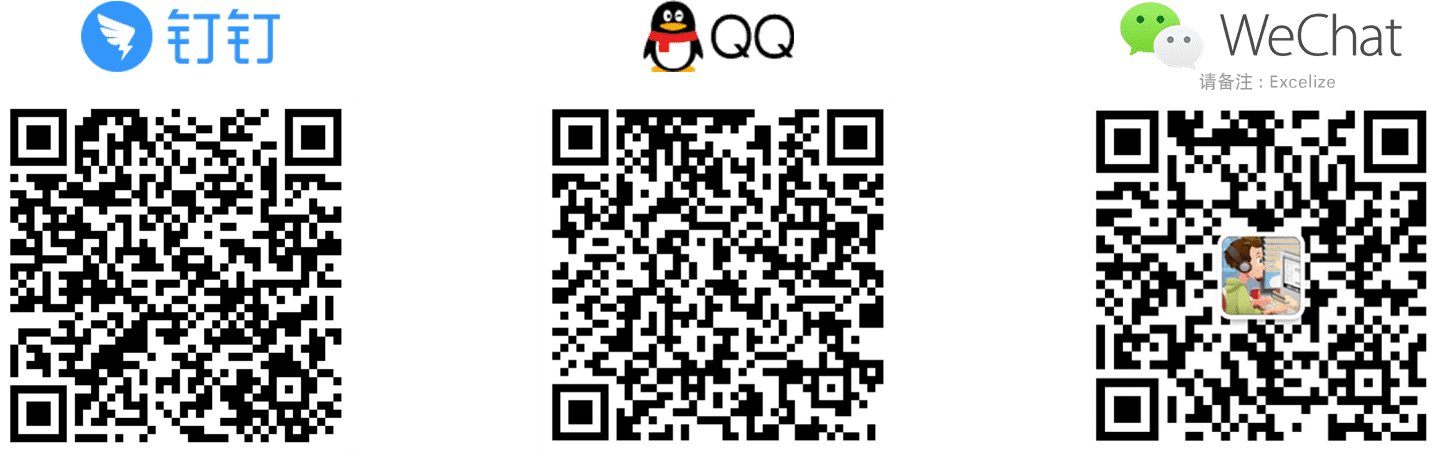
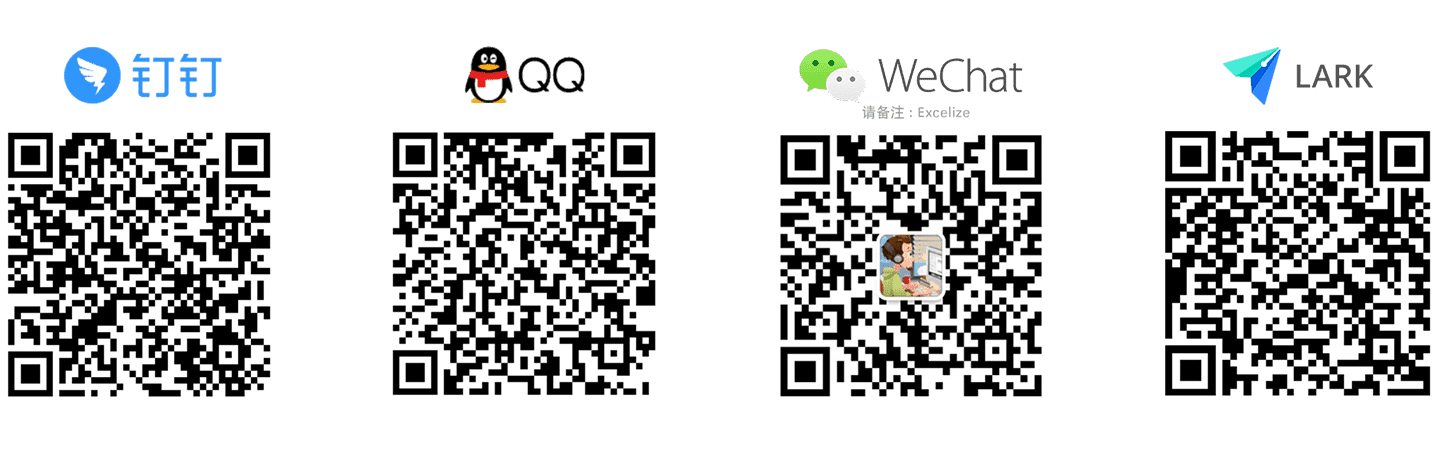
update supported formula functions and community group QR code

diff --git a/ar/README.md b/ar/README.md
@@ -25,7 +25,7 @@ Excelize هي مكتبة مكتوبة في الذهاب نقية توفير مج
 
 إذا كانت شركتك أو منتجك يستخدم أيضا Excelize، نرحب <a href="mailto: xuri.me@gmail.com?Subject=Please add our company in Excelize Introduction page&amp;Body=Hello%2C%20this%20is%20%3Cyour%20name%3E%20from%20%3Cyour%20company%20name%3E.%0AWe%20are%20using%20Excelize%20and%20will%20be%20proud%20to%20add%20our%20company%20name%20to%20Excelize%20Introduction%20page.%0APlease%20see%20attachment%20for%20our%20logo.%20%3CBe%20sure%20to%20include%20logo%20in%20attachment%3E%0A" title="send Logo via E-mail">إرسال الشعار</a> لنا
 
-<a href="https://groups.google.com/g/excelize" title="Excelize Google Group" target="_blank"><img style="margin: 25px 20px 0 0;" height="45" src="../images/google_groups@2x.png" alt="Excelize Google Group"></a> <a href="https://join.slack.com/t/xuri/shared_invite/zt-eriqdkeo-wV04zcCdBiiZveFgY86Wzw" title="Excelize Slack Channel" target="_blank"><img style="margin-top: 25px;" height="45" src="../images/slack.svg" alt="Excelize Slack Channel"></a> <a href="https://t.me/excelize" title="Excelize Community on Telegram" target="_blank"><img style="margin: 25px 0 0 25px;" height="45" src="../images/telegram.svg" alt="Excelize Community on Telegram"></a> <a href="https://discord.gg/MWV8MBQGtv" title="Excelize Community on Discord" target="_blank"><img style="margin: 25px 0 0 25px;" height="45" src="../images/discord.svg" alt="Excelize Community on Discord"></a>
+<a href="https://groups.google.com/g/excelize" title="Excelize Google Group" target="_blank"><img style="margin: 25px 0 0 20px;" height="45" src="../images/google_groups@2x.png" alt="Excelize Google Group"></a> <a href="https://join.slack.com/t/xuri/shared_invite/zt-eriqdkeo-wV04zcCdBiiZveFgY86Wzw" title="Excelize Slack Channel" target="_blank"><img style="margin: 25px 0 0 20px" height="45" src="../images/slack.svg" alt="Excelize Slack Channel"></a> <a href="https://t.me/excelize" title="Excelize Community on Telegram" target="_blank"><img style="margin: 25px 0 0 25px;" height="45" src="../images/telegram.svg" alt="Excelize Community on Telegram"></a> <a href="https://discord.gg/MWV8MBQGtv" title="Excelize Community on Discord" target="_blank"><img style="margin: 25px 0 0 25px;" height="45" src="../images/discord.svg" alt="Excelize Community on Discord"></a>
 
 ## الراعي إكسلسيز التنمية
 

diff --git a/zh-tw/README.md b/zh-tw/README.md
@@ -43,4 +43,18 @@ DingTalk Group ID: [`30047129`](https://qr.dingtalk.com/action/joingroup?code=v1
 QQ Group ID: [`207895940`](https://jq.qq.com/?_wv=1027&k=5imdV9h)
 WeChat ID: `hixuri` (請備註: Excelize)
 
-<img width="700" src="../images/group@2x.png" alt="Excelize 技術交流群">
+<a href="https://qr.dingtalk.com/action/joingroup?code=v1,k1,DMIYOhc1sHsGezVdHJjsH9Y8usCdanuVIL/q9EWh9vA=&_dt_no_comment=1&origin=11" title="Excelize DingTalk 技術交流群" target="_blank"><img style="margin: 25px 60px 0 0;" width="140" src="../images/dingtalk_group@2x.png" alt="Excelize DingTalk 技術交流群"></a> <a href="https://jq.qq.com/?_wv=1027&k=zf9MCmtH" title="Excelize QQ 技術交流群" target="_blank"><img style="margin: 25px 60px 0 0;" width="140" src="../images/qq_group@2x.png" alt="Excelize QQ 技術交流群"></a> <img style="margin: 25px 60px 0 0;" width="140" src="../images/wechat_group@2x.png" alt="Excelize WeChat 技術交流群"> <a href="https://applink.larksuite.com/TJow9o9" title="Excelize Lark 技術交流群" target="_blank"><img style="margin: 25px 60px 0 0;" width="140" src="../images/lark_group@2x.png" alt="Excelize Lark 技術交流群"></a>
+
+## 商業支持
+
+幫助您的應用發揮最大潛力，讓使用電子錶格檔案變得有趣。除了提供完全免費和開源的基礎庫軟件包之外，Excelize 還可以在商業上提供技術咨詢支持服務：
+
+- 優先考慮您的問題
+
+有急需解決的問題或新功能需求嗎？Excelize 很樂意根據商業支持為您提供優先服務，請與 Excelize 聯繫以獲取更多詳細信息。
+
+- 專業技術咨詢服務
+
+在您的應用程序使用 Excelize 開發過程中提供技術支持，提供解決方案咨詢服務，並可以按小時為基礎加入您的團隊。
+
+請通過 <a href="mailto: xuri.me@gmail.com">E-mail</a> 與我們取得聯繫。

diff --git a/ru/cell.md b/ru/cell.md
@@ -530,7 +530,7 @@ GetComments извлекает все комментарии и возвраща
 func (f *File) SetCellFormula(sheet, axis, formula string, opts ...FormulaOpts) error
 ```
 
-Формула на ячейке берется согласно заданному имени листа (с учетом регистра) и настройкам формулы ячейки. Результат формулы вычисляется, когда рабочий лист открывается приложением Office Excel, а Excelize в настоящее время не предоставляет механизм вычисления формулы, поэтому результаты формулы не могут быть рассчитаны.
+Формула на ячейке берется согласно заданному имени листа (с учетом регистра) и настройкам формулы ячейки. Результат ячейки формулы может быть рассчитан, когда лист открыт приложением Office Excel или может использовать функцию [CalcCellValue](cell.md#CalcCellValue) также может получить рассчитанное значение ячейки.
 
 ## Получить формулу ячейки {#GetCellFormula}
 
@@ -678,7 +678,9 @@ OCT2DEC
 OCT2HEX
 ODD
 OR
+PERCENTILE
 PERMUT
+PERMUTATIONA
 PI
 POISSON.DIST
 POISSON

diff --git a/ar/cell.md b/ar/cell.md
@@ -539,7 +539,7 @@ func (f *File) GetComments() (comments map[string][]Comment)
 func (f *File) SetCellFormula(sheet, axis, formula string, opts ...FormulaOpts) error
 ```
 
-يتم أخذ الصيغة الموجودة في الخلية وفقًا لاسم ورقة العمل المحدد (حساس لحالة الأحرف) وإعدادات صيغة الخلية. يتم حساب نتيجة الصيغة عندما يتم فتح ورقة العمل بواسطة تطبيق Office Excel ، ولا يوفر Excelize حاليًا محرك حساب الصيغة ، لذلك لا يمكن حساب نتائج الصيغة.
+يتم أخذ الصيغة الموجودة في الخلية وفقًا لاسم ورقة العمل المحدد (حساس لحالة الأحرف) وإعدادات صيغة الخلية. يمكن حساب نتيجة خلية الصيغة عند فتح ورقة العمل بواسطة تطبيق Office Excel أو يمكن أن تستخدم الدالة [CalcCellValue](cell.md#CalcCellValue) أيضاً الحصول على قيمة الخلية المحسوبة.
 
 ## الحصول على صيغة الخلية {#GetCellFormula}
 
@@ -687,7 +687,9 @@ OCT2DEC
 OCT2HEX
 ODD
 OR
+PERCENTILE
 PERMUT
+PERMUTATIONA
 PI
 POISSON.DIST
 POISSON

diff --git a/zh-hans/README.md b/zh-hans/README.md
@@ -43,7 +43,7 @@ DingTalk Group ID: [`30047129`](https://qr.dingtalk.com/action/joingroup?code=v1
 QQ Group ID: [`207895940`](https://jq.qq.com/?_wv=1027&k=5imdV9h)
 WeChat ID: `hixuri` (请备注: Excelize)
 
-<img width="700" src="../images/group@2x.png" alt="Excelize 技术交流群">
+<a href="https://qr.dingtalk.com/action/joingroup?code=v1,k1,DMIYOhc1sHsGezVdHJjsH9Y8usCdanuVIL/q9EWh9vA=&_dt_no_comment=1&origin=11" title="Excelize DingTalk 技术交流群" target="_blank"><img style="margin: 25px 60px 0 0;" width="140" src="../images/dingtalk_group@2x.png" alt="Excelize DingTalk 技术交流群"></a> <a href="https://jq.qq.com/?_wv=1027&k=zf9MCmtH" title="Excelize QQ 技术交流群" target="_blank"><img style="margin: 25px 60px 0 0;" width="140" src="../images/qq_group@2x.png" alt="Excelize QQ 技术交流群"></a> <img style="margin: 25px 60px 0 0;" width="140" src="../images/wechat_group@2x.png" alt="Excelize WeChat 技术交流群"> <a href="https://applink.larksuite.com/TJow9o9" title="Excelize Lark 技术交流群" target="_blank"><img style="margin: 25px 60px 0 0;" width="140" src="../images/lark_group@2x.png" alt="Excelize Lark 技术交流群"></a>
 
 ## 商业支持
 

diff --git a/es/cell.md b/es/cell.md
@@ -534,7 +534,7 @@ GetComments recupera todos los comentarios y devuelve un mapa del nombre de la h
 func (f *File) SetCellFormula(sheet, axis, formula string, opts ...FormulaOpts) error
 ```
 
-La fórmula de la celda se toma de acuerdo con el nombre de la hoja de trabajo (distingue entre mayúsculas y minúsculas) y la configuración de la fórmula de la celda. El resultado de la fórmula se calcula cuando la aplicación Office Excel abre la hoja de cálculo, y Excelize no proporciona actualmente un motor de cálculo de fórmulas, por lo que los resultados de la fórmula no se pueden calcular.
+La fórmula de la celda se toma de acuerdo con el nombre de la hoja de trabajo (distingue entre mayúsculas y minúsculas) y la configuración de la fórmula de la celda. El resultado de la celda de fórmula se puede calcular cuando la aplicación de Office Excel abre la hoja de cálculo o puede usar la función [CalcCellValue](cell.md#CalcCellValue) también puede obtener el valor de celda calculado.
 
 ## Obtener fórmula celular {#GetCellFormula}
 
@@ -682,7 +682,9 @@ OCT2DEC
 OCT2HEX
 ODD
 OR
+PERCENTILE
 PERMUT
+PERMUTATIONA
 PI
 POISSON.DIST
 POISSON

diff --git a/fr/cell.md b/fr/cell.md
@@ -534,7 +534,7 @@ GetComments récupère tous les commentaires et renvoie une carte de nom de feui
 func (f *File) SetCellFormula(sheet, axis, formula string, opts ...FormulaOpts) error
 ```
 
-La formule sur la cellule est prise en fonction du nom de feuille de calcul donné (sensible à la casse) et des paramètres de formule de cellule. Le résultat de la formule est calculé lorsque la feuille de calcul est ouverte par l'application Office Excel et que Excelize ne fournit pas actuellement de moteur de calcul de formule. Les résultats de formule ne peuvent donc pas être calculés.
+La formule sur la cellule est prise en fonction du nom de feuille de calcul donné (sensible à la casse) et des paramètres de formule de cellule. Le résultat de la cellule de formule peut être calculé lorsque la feuille de travail est ouverte par l’application Office Excel ou peut utiliser la fonction [CalcCellValue](cell.md#CalcCellValue) peut également obtenir la valeur cellulaire calculée.
 
 ## Obtenir la formule cellulaire {#GetCellFormula}
 
@@ -682,7 +682,9 @@ OCT2DEC
 OCT2HEX
 ODD
 OR
+PERCENTILE
 PERMUT
+PERMUTATIONA
 PI
 POISSON.DIST
 POISSON

diff --git a/de/cell.md b/de/cell.md
@@ -534,7 +534,7 @@ GetComments ruft alle Kommentare ab und gibt eine Karte des Arbeitsblattnamens a
 func (f *File) SetCellFormula(sheet, axis, formula string, opts ...FormulaOpts) error
 ```
 
-Die Formel in der Zelle wird gemäß dem angegebenen Arbeitsblattnamen (Groß- und Kleinschreibung beachten) und den Einstellungen für die Zellformel verwendet. Das Ergebnis der Formel wird berechnet, wenn das Arbeitsblatt von der Office Excel-Anwendung geöffnet wird. Excelize bietet derzeit keine Formelberechnungs-Engine, sodass die Formelergebnisse nicht berechnet werden können.
+Die Formel in der Zelle wird gemäß dem angegebenen Arbeitsblattnamen (Groß- und Kleinschreibung beachten) und den Einstellungen für die Zellformel verwendet. Das Ergebnis der Formelzelle kann berechnet werden, wenn das Arbeitsblatt von der Office Excel-Anwendung geöffnet wird, oder kann die [CalcCellValue](cell.md#CalcCellValue) Funktion auch den berechneten Zellenwert abrufen.
 
 ## Abrufen der Zellenformel {#GetCellFormula}
 
@@ -682,7 +682,9 @@ OCT2DEC
 OCT2HEX
 ODD
 OR
+PERCENTILE
 PERMUT
+PERMUTATIONA
 PI
 POISSON.DIST
 POISSON

diff --git a/ja/cell.md b/ja/cell.md
@@ -534,7 +534,7 @@ func (f *File) GetComments() (comments map[string][]Comment)
 func (f *File) SetCellFormula(sheet, axis, formula string, opts ...FormulaOpts) error
 ```
 
-指定されたワークシート名 (大文字小文字の区別) とセルの設定に基づいて、セルの数式を設定します。 数式の結果は、ワークシートが Office Excel アプリケーションによって開かれたときに計算され、Excelize は現在、数式計算エンジンを提供していないため、数式の結果を計算できません。
+指定されたワークシート名 (大文字小文字の区別) とセルの設定に基づいて、セルの数式を設定します。数式セルの結果は、ワークシートが Office Excel アプリケーションで開かれた場合、または計算されたセル値を取得する場合に [CalcCellValue](cell.md#CalcCellValue) 関数を使用して計算できます。
 
 ## セル式を取得する {#GetCellFormula}
 
@@ -682,7 +682,9 @@ OCT2DEC
 OCT2HEX
 ODD
 OR
+PERCENTILE
 PERMUT
+PERMUTATIONA
 PI
 POISSON.DIST
 POISSON

diff --git a/zh-hans/cell.md b/zh-hans/cell.md
@@ -20,7 +20,7 @@ type HyperlinkOpts struct {
 
 FormulaOpts 用于在 [`SetCellFormula`](cell.md#SetCellFormula) 函数中指定设置特殊公式类型。
 
-```
+```go
 type FormulaOpts struct {
     Type *string // 公式类型
     Ref  *string // 共享公式引用
@@ -534,7 +534,7 @@ func (f *File) GetComments() (comments map[string][]Comment)
 func (f *File) SetCellFormula(sheet, axis, formula string, opts ...FormulaOpts) error
 ```
 
-根据给定的工作表名（大小写敏感）和单元格坐标设置取该单元格上的公式。公式的结果会在工作表被 Office Excel 应用程序打开时计算，Excelize 目前不提供公式计算引擎，所以无法计算公式结果。
+根据给定的工作表名（大小写敏感）和单元格坐标设置取该单元格上的公式。公式的结果可在工作表被 Office Excel 应用程序打开时计算，或通过 [CalcCellValue](cell.md#CalcCellValue) 函数计算单元格的值。
 
 ## 获取公式 {#GetCellFormula}
 
@@ -682,7 +682,9 @@ OCT2DEC
 OCT2HEX
 ODD
 OR
+PERCENTILE
 PERMUT
+PERMUTATIONA
 PI
 POISSON.DIST
 POISSON

diff --git a/zh-tw/cell.md b/zh-tw/cell.md
@@ -20,7 +20,7 @@ type HyperlinkOpts struct {
 
 FormulaOpts 用於在 [`SetCellFormula`](cell.md#SetCellFormula) 函數中指定設置特殊公式類型。
 
-```
+```go
 type FormulaOpts struct {
     Type *string // 公式類型
     Ref  *string // 共享公式引用
@@ -534,7 +534,7 @@ func (f *File) GetComments() (comments map[string][]Comment)
 func (f *File) SetCellFormula(sheet, axis, formula string, opts ...FormulaOpts) error
 ```
 
-根據給定的工作表名（大小寫敏感）和儲存格坐標設定取該儲存格上的公式。公式的結果會在工作表被 Office Excel 應用程式打開時計算，Excelize 目前不提供公式計算引擎，所以無法計算公式結果。
+根據給定的工作表名（大小寫敏感）和儲存格坐標設定取該儲存格上的公式。公式的結果會在工作表被 Office Excel 應用程式打開時計算，或通過 [CalcCellValue](cell.md#CalcCellValue) 函數計算存儲格的值。
 
 ## 獲取公式 {#GetCellFormula}
 
@@ -682,7 +682,9 @@ OCT2DEC
 OCT2HEX
 ODD
 OR
+PERCENTILE
 PERMUT
+PERMUTATIONA
 PI
 POISSON.DIST
 POISSON
